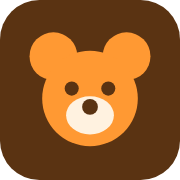
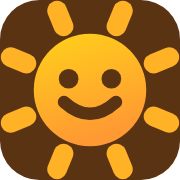
Redraw the brand mark as a modern take on the original sun
The previous mark was an invented teddy bear. The 2004 home page had a
hand-drawn smiling sun above the BABYLAND wordmark, so the mark now
derives from that instead of from nothing: thick rounded rays in place of
the pencil strokes, a disc graduating from the original yellow #FFD11A to
the wordmark orange #FF9933, and a simplified face.

Drawn as four candidates and compared at 16/24/32/64/180px against light
and dark tab backgrounds before choosing. The winner keeps a dark tile so
it holds up on a light tab strip; a tile-less variant is used for the
header and footer, where it sits on white and on brown respectively.

The decorative watermark in the placeholder artwork follows the same sun,
replacing the teddy there too. All raster icons and the OG image are
re-rendered from the SVGs.

Claude-Session: https://claude.ai/code/session_01MYLjrbch4nmKSsigeJL1DH

diff --git a/README.md b/README.md
@@ -188,6 +188,16 @@ Farby sú prevzaté z **pôvodného loga BABYLAND** — oranžová `#FF9933` je
 vzorkovaná priamo z pôvodného nápisu, limetka `#99CC00` z trička postavičky
 a žltá `#FFD11A` zo slniečka na starej úvodnej stránke.
 
+Značka (`assets/logo-mark.svg`, `assets/favicon.svg`) je **moderná
+interpretácia slniečka**, ktoré bolo na pôvodnej úvodnej stránke — hrubé
+zaoblené lúče namiesto vlasových čiar a kotúč s prechodom zo žltej do
+oranžovej. Nie je to kópia, ale motív je pôvodný.
+
+Ikony v `assets/` (`favicon-32.png`, `apple-touch-icon.png`, `icon-192.png`,
+`icon-512.png`) aj `og-image.png` sa **generujú z SVG** — po zmene značky
+alebo farieb ich prekreslite:
+`node .claude/skills/local-business-website/scripts/render_raster.js`
+
 Prefarbenie značky = zmena premenných v `:root` v `css/styles.css`.
 Pozor na kontrast: `--c-accent` (oranžová) je **len dekoratívna** — biely text
 na nej má 2,1 : 1. Pre text a pre tlačidlá s bielym popisom používajte
